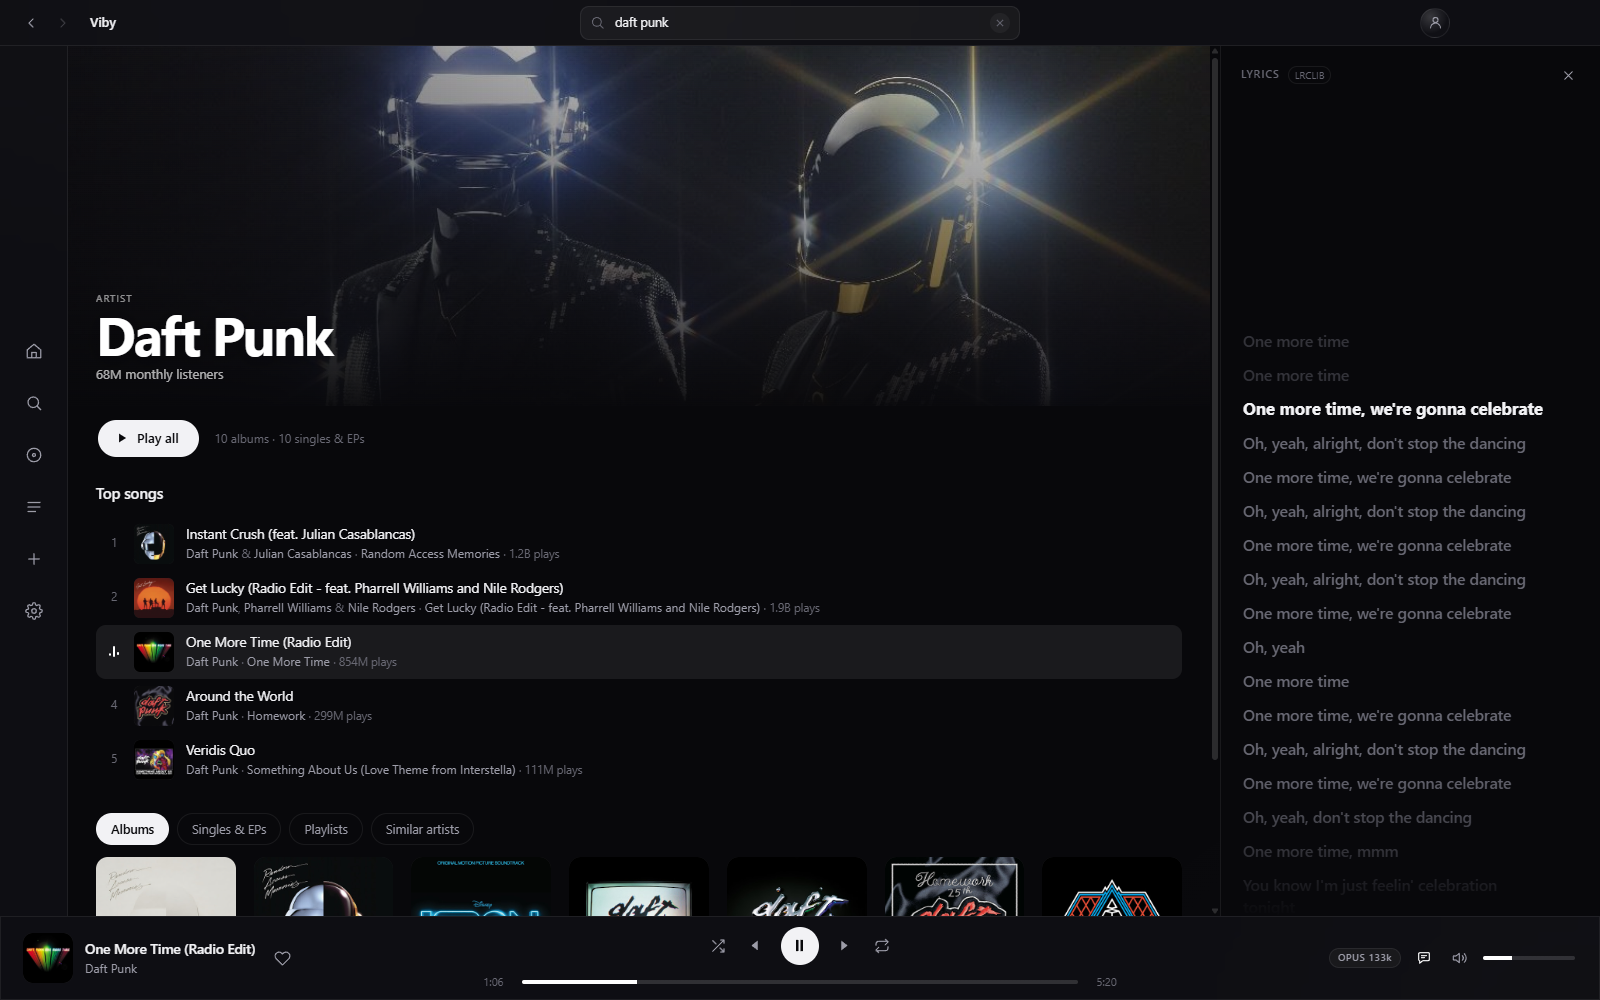
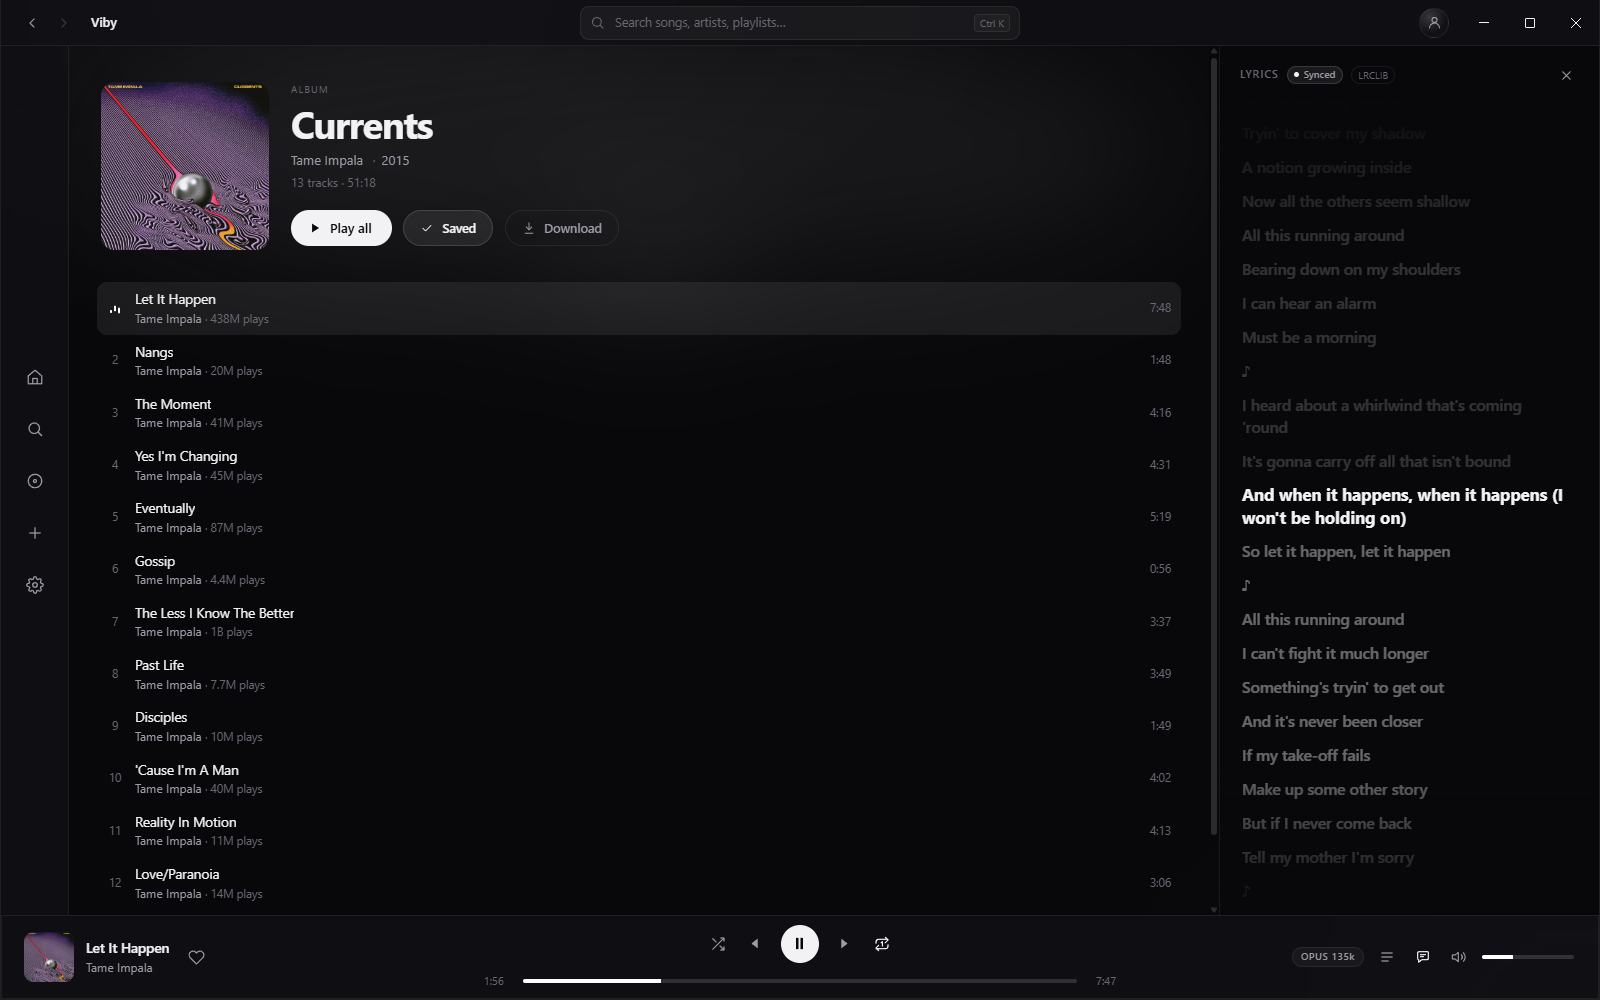
docs: refresh the readme and screenshots for 0.5.2
The README still described the 0.2.2 app: it missed the Home
dashboard, the docked queue, saved releases, keyboard shortcuts,
launch at login and the What's New sheet, and it pointed macOS
users at right-click -> Open even though the builds are ad-hoc
signed and need the quarantine removed.

Replace the old set with five 1600x1000 shots captured from the
real app. They use PrintWindow rather than capturePage so the
native minimize/maximize/close buttons are present; the overlay
is drawn by Windows outside the renderer, which is why the old
shots had an empty strip. The downloads shot is gone because
downloads now live inside Library.

Record the capture constraint in windows-state.md so the next
refresh does not rediscover it.

diff --git a/README.md b/README.md
@@ -22,65 +22,68 @@ Viby opens on your music, not on an offer. No sign-up screen, no ad before the f
 It plays from YouTube Music's catalogue, so almost anything you look for is there. The player, the library, the lyrics and the downloads are built here — which is why none of them are trying to sell you anything, and why what you keep stays on your machine.
 
 <p align="center">
-  <img src="docs/screenshots/home.png" alt="Viby home screen with recently played and music shelves" />
+  <img src="docs/screenshots/home.png" alt="Viby home screen with this week's listening, recently played and quick picks" />
 </p>
 <p align="center">
-  <sub>Home — what you played last, then something new.</sub>
+  <sub>Home — what you played last, this week's listening, then something new.</sub>
 </p>
 
 ## Get Viby
 
 Download the latest release with the badges above: **Apple silicon** for an M-series Mac, **Intel** for an older one, **x64** for Windows 10 or 11. Every version and its notes are on the [releases page](https://github.com/Rei-SU/Viby/releases).
 
-The macOS build is unsigned, so the first launch needs **right-click → Open**. After that it opens normally. The Windows installer is per-user and needs no administrator password; updates install in place.
+**macOS.** Drag Viby to Applications, then remove the download quarantine once:
+
+```bash
+xattr -dr com.apple.quarantine /Applications/Viby.app
+```
+
+The build is ad-hoc signed but not notarized. Gatekeeper may report it as damaged; that is Gatekeeper's decision, not a corrupt download. Viby checks for updates and opens the matching DMG, because an ad-hoc-signed app cannot replace itself in place.
+
+**Windows.** The installer is per-user and needs no administrator password. Updates download, install in place and reopen Viby.
 
 ## What it does
 
-- **A player that behaves.** Queue, shuffle, repeat, media keys, resume where you left off, and a cache that makes a replay instant.
-- **Background playback, if you want it.** Turn on “Keep playing when closed” and the close button hides Viby in the menu bar or system tray; playback continues until you quit from there.
-- **A library that stays yours.** Liked songs, playlists and history on your disk, fully usable signed out. No account, no cloud, no "syncing…" spinner.
-- **Offline that means offline.** Download songs, albums, playlists or Liked Songs. The app follows your connection and falls back to what is on the device.
+- **A player that behaves.** Queue, shuffle, repeat, media keys, resume where you left off, and a cache that makes a replay instant. Quality is either best available or a 64 kbps data saver, and it is never silently downgraded.
+- **A queue you can shape.** The queue docks beside the page: reorder it with the grip or the keyboard, or drag any song from search, an album or your history straight into it.
+- **A home that remembers.** Recently played rows, the last 100 plays in a side panel, a weekly listening snapshot with your top artists, and mood pages that open YouTube Music's own Focus, Energize, Chill and Decades collections.
+- **A library that stays yours.** Liked songs, playlists, saved albums and EPs, history and downloads live on your disk, fully usable signed out. No account, no cloud, no "syncing…" spinner.
+- **Downloads that belong to the library.** Download songs, albums, playlists or Liked Songs; badges and progress rings show what is on disk. Viby follows your connection and can be switched offline by hand, with an Offline Home for what you kept.
 - **Lyrics that keep up.** Time-synced lyrics from LRCLIB, plain text from lyrics.ovh as a backup, click any line to seek, and a docked panel that leaves the page usable.
-- **Your playlists, not a fresh start.** Paste a public Spotify, Apple Music, Deezer, YouTube Music or SoundCloud playlist. Tracks are matched by title, artist and duration; anything uncertain is flagged for review, never silently swapped.
-- **Quiet by design.** A monochrome interface, a slim icon rail, search from the titlebar (`⌘K` / `Ctrl K`), and a light footprint — under 400 MB at idle in our macOS tests.
+- **Your playlists, not a fresh start.** Paste a public Spotify, Apple Music, Deezer, YouTube Music or SoundCloud playlist. Tracks are matched by title, artist and duration; anything uncertain is offered for review, never silently swapped.
+- **Small things that add up.** Search from the titlebar (`⌘K` / `Ctrl K` or `/`), a full set of player shortcuts, launch at login with an optional minimized start, optional close-to-tray playback, Windows taskbar controls, and a What's New sheet after an update.
+- **Quiet by design.** A monochrome interface, a slim icon rail, and a light footprint — under 400 MB at idle in our macOS tests.
 
 ## A closer look
 
 <p align="center">
-  <img src="docs/screenshots/artist.png" width="49%" alt="Artist page with a full-width banner, monthly listeners and the discography" />
-  <img src="docs/screenshots/album.png" width="49%" alt="Album page with the artist, year, track list and durations" />
+  <img src="docs/screenshots/search.png" width="49%" alt="Search results for Tame Impala with a top result, songs and artists" />
+  <img src="docs/screenshots/artist.png" width="49%" alt="Tame Impala artist page with a banner, top songs and albums" />
 </p>
 <p align="center">
-  <sub>Artist pages with real discographies &nbsp;·&nbsp; Album pages with real track lists, artist and year</sub>
-</p>
-
-<p align="center">
-  <img src="docs/screenshots/lyrics.png" alt="Time-synced lyrics docked beside an artist page" />
-</p>
-<p align="center">
-  <sub>Lyrics docked beside the page. Click any line to jump to that moment.</sub>
+  <sub>Search across songs, albums, artists and playlists &nbsp;·&nbsp; Artist pages with real discographies</sub>
 </p>
 
 <p align="center">
-  <img src="docs/screenshots/search.png" width="49%" alt="Search results with a top result, songs and artists" />
-  <img src="docs/screenshots/downloads.png" width="49%" alt="A downloaded album with offline badge, track list and file sizes" />
+  <img src="docs/screenshots/album.png" width="49%" alt="Currents album page with Save and Download actions and the real track list" />
+  <img src="docs/screenshots/lyrics.png" width="49%" alt="Time-synced lyrics docked beside the Currents album page" />
 </p>
 <p align="center">
-  <sub>Search across songs, albums, artists and playlists &nbsp;·&nbsp; Downloads keep their credits and play with the network off</sub>
+  <sub>Release pages with real track lists, artist and year &nbsp;·&nbsp; Lyrics docked beside the page — click a line to jump</sub>
 </p>
 
 ## Where it stands
 
 Viby is small on purpose and still early. The version badge at the top always shows the latest release; the [releases page](https://github.com/Rei-SU/Viby/releases) has the notes for each one.
 
-- **macOS builds are unsigned and unnotarized.** Updates download the matching DMG; in-place macOS updates remain deferred until Developer ID signing is available.
+- **macOS builds are ad-hoc signed and not notarized.** The first launch needs the `xattr` command above. Updates download the matching DMG; in-place macOS updates wait for Developer ID signing.
 - **Windows updates install in place.** Windows 11 is verified on Electron 45. Windows 10 uses the same x64 build and is expected to behave the same; no separate hardware pass is planned.
-- **No accounts, no sync, no telemetry.** Your liked songs, playlists and history are local files. Optional, end-to-end encrypted backup and sync is planned, and it will never be required to listen.
+- **No accounts, no sync, no telemetry.** Your liked songs, playlists, history and downloads are local files. Optional, end-to-end encrypted backup and sync is planned, and it will never be required to listen.
 
 ## What's next
 
 - Manual search for import rows that don't match on their own, plus album and single links in the importer
-- Drag-to-reorder playlists, add-to-playlist from the player bar, virtualized lists for very long playlists
+- Drag-to-reorder playlists and virtualized lists for very long playlists
 - Optional accounts: private, end-to-end encrypted backup and sync across devices
 
 ## Build from source
@@ -106,7 +109,7 @@ Packaged builds need no Python install, no configuration file and no first-run s
 
 ## Privacy
 
-No account is required. No analytics, no telemetry, no ad tracking. Your library, playlists, history, downloads and cache live in your user data folder, and the app only talks to the network to browse, play, fetch lyrics, download music and import a link you paste. If optional accounts ship later, they will only back up and sync your library; listening will never require one.
+No account is required. No analytics, no telemetry, no ad tracking. Your library, playlists, history, downloads and cache live in your user data folder, and the app only talks to the network to browse and search the catalogue, play music, fetch lyrics and artist images, download music, import a link you paste, and check for updates. If optional accounts ship later, they will only back up and sync your library; listening will never require one.
 
 ## Contributing
 

diff --git a/windows-state.md b/windows-state.md
@@ -362,6 +362,19 @@ installed app is open makes the dev instance quit immediately ("DevTools
 listening" then exit). Work around with `--user-data-dir=<temp>`.
 **File:** `src/main/index.ts`
 
+### 7.6 README screenshots need PrintWindow to show the window buttons — Resolved (docs)
+Windows draws the minimize/maximize/close buttons for `titleBarOverlay` itself,
+outside the renderer. `webContents.capturePage()` therefore leaves that strip
+empty, which is why the old README shots had a blank top-right corner. Capturing
+the native window with `PrintWindow(hwnd, hdc, PW_RENDERFULLCONTENT)` includes
+the real buttons (and works while the window is occluded); crop the result to
+`DwmGetWindowAttribute(DWMWA_EXTENDED_FRAME_BOUNDS)`. At 96 DPI a 1614×1007
+window has a 1600×1000 visible frame, because the window rect carries ~7 px of
+invisible resize border. The current `docs/screenshots/` set was captured this
+way.
+
+**Files:** `docs/screenshots/`, `src/main/windows.ts` (`titleBarOverlay`)
+
 ---
 
 ## 8. Verified working on Windows
